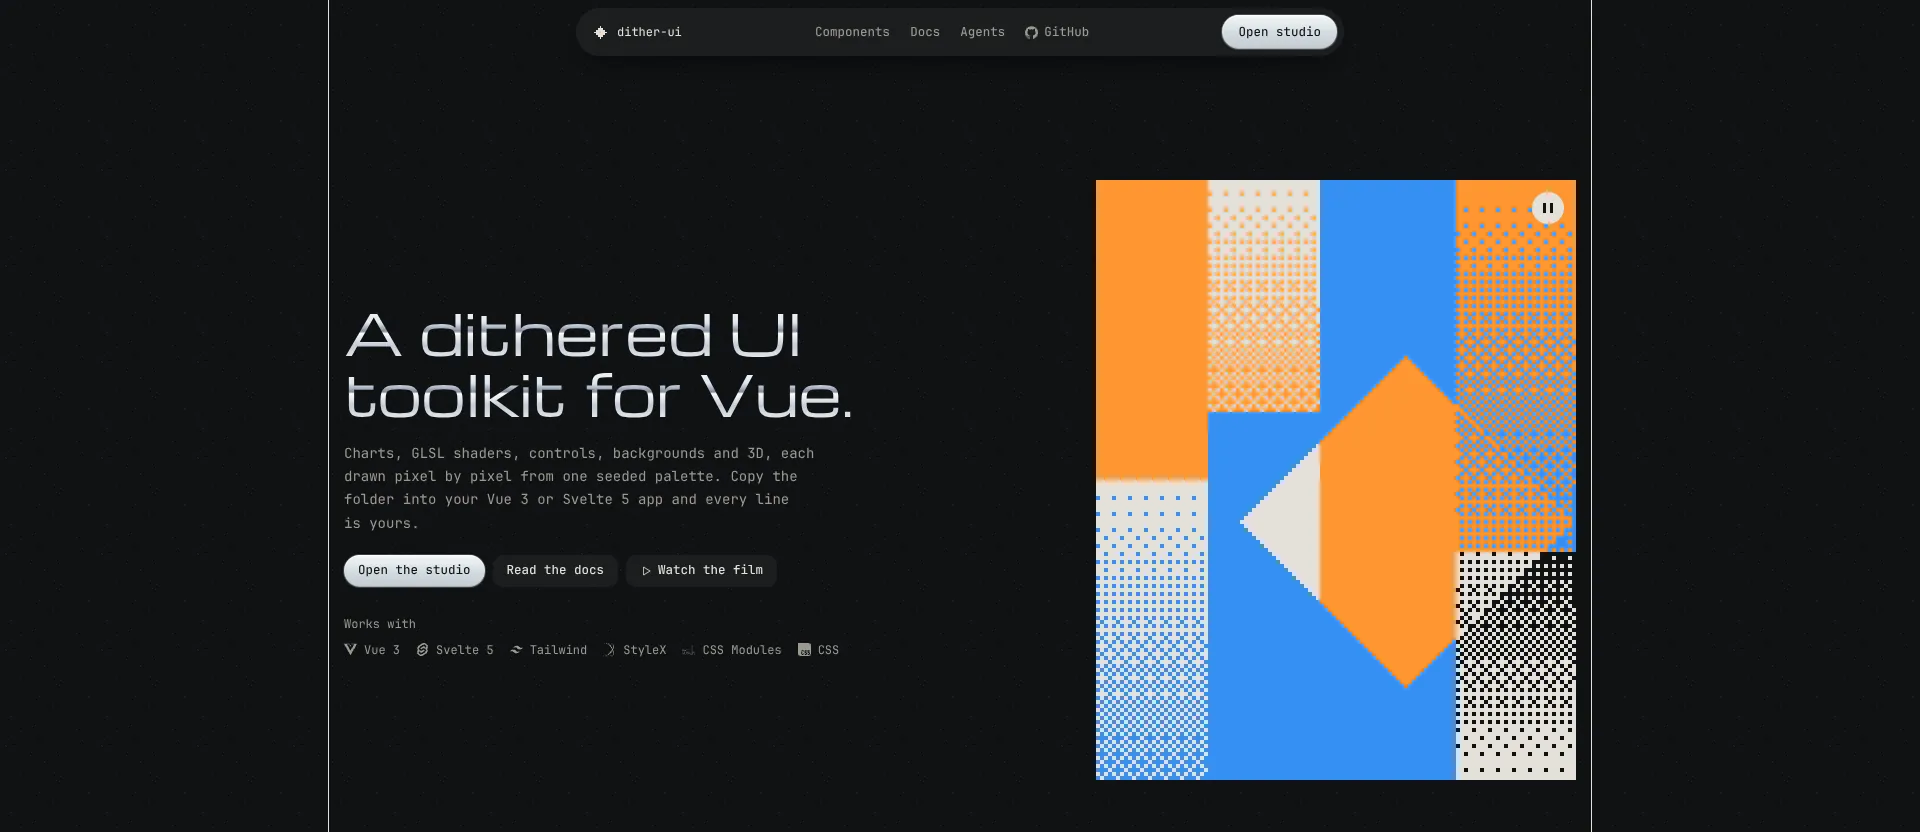
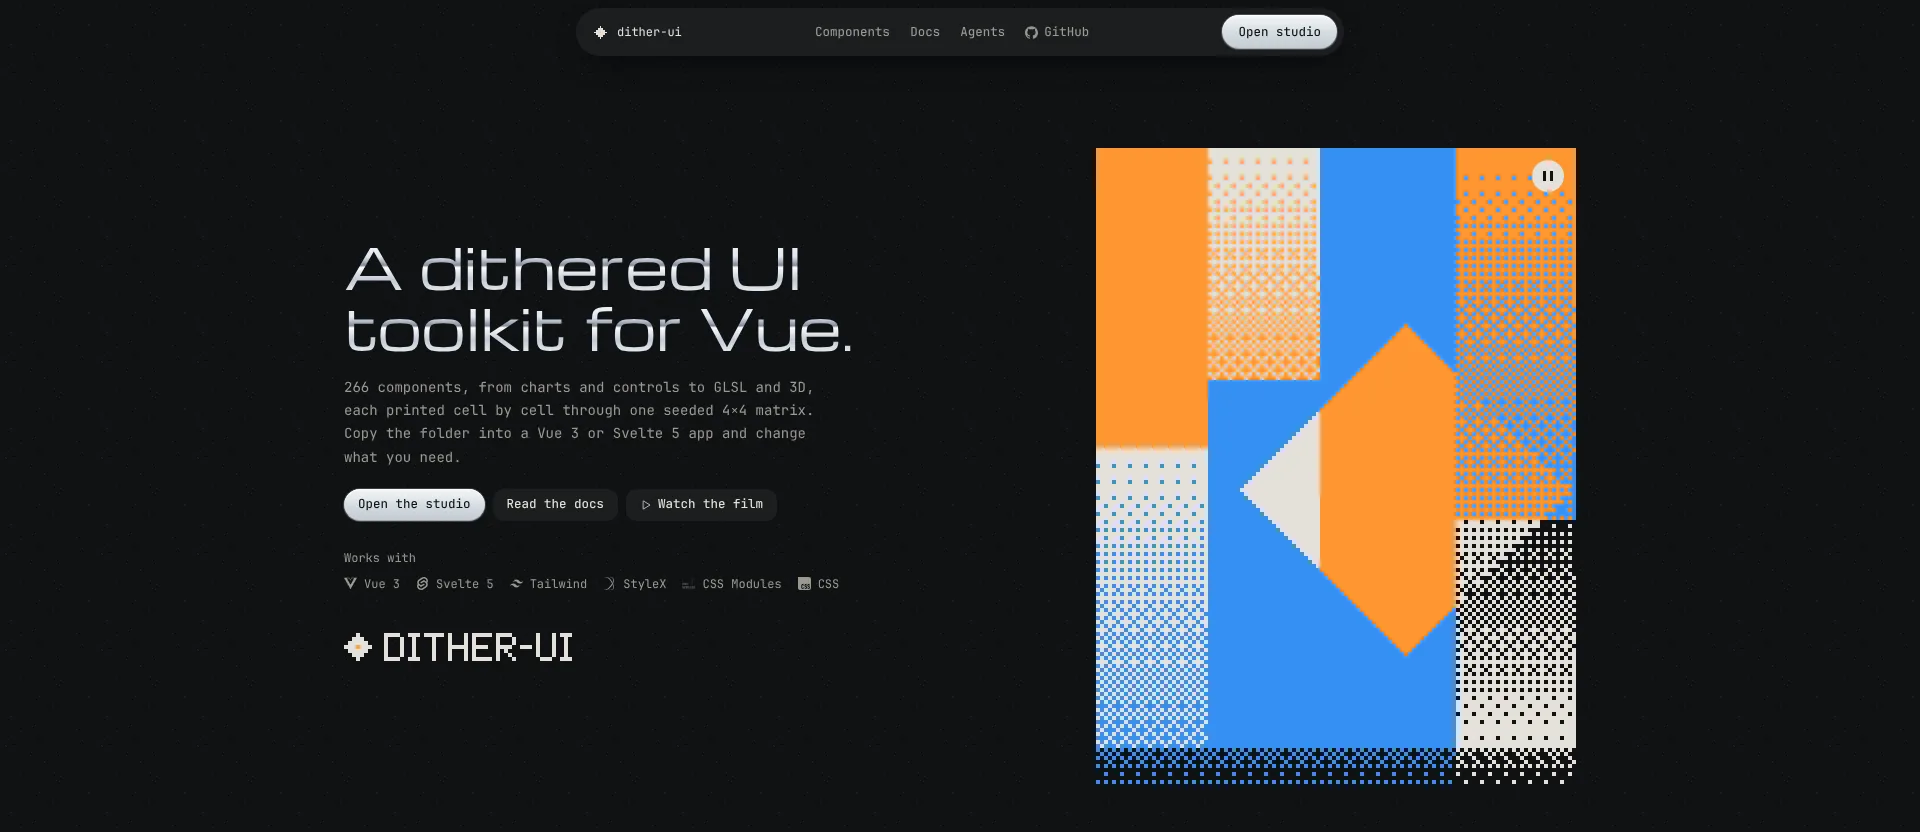
Landing: no side lines; the footer's galaxy runs behind the name
The page's hairline frame is gone (the user's call). The footer's art now
covers the whole footer, the wordmark included: the road runs from the
copyright line to the page's foot with the line-screen wordmark printed
over its foot, so the grain fills the gap between the links and the name
as a field and shows between the wordmark's rows, and the trails run under
the diamond, standing clear above the name at every width, and sweep down
behind its end. The README's banner and landing shots are retaken without
the frame.

Claude-Session: https://claude.ai/code/session_01VFJHAFjKoL8rvfjAbQNhSD

diff --git a/src/pages/landing/LandingPage.vue b/src/pages/landing/LandingPage.vue
@@ -1,12 +1,12 @@
 <script setup lang="ts">
-// The landing, printed in the dark, always: one bone ink on obsidian
-// inside a hairline frame, the kit's art the only colour on it. The hero (the statement beside the
+// The landing, printed in the dark, always: one bone ink on obsidian, the
+// kit's art the only colour on it. The hero (the statement beside the
 // stage, seated on a poster the kit prints), then sections under a title
 // with a lead beside it: a bento of live kit components, the screen an
 // agent's ask makes, what's inside (the kit, the Studio, the bridge; the
 // docs' families) and the install, with a plate of the brand small in a
 // wide field between them, and a footer of the brand and link columns on the
-// kit's light trails, over the line-screen wordmark. Michroma for display, mono for the rest; everything
+// kit's light trails, the line-screen wordmark printed over them. Michroma for display, mono for the rest; everything
 // that moves is the kit.
 import { defineAsyncComponent, onBeforeUnmount, onMounted, ref } from "vue"
 import { DitherClipboard, DitherIcon } from "@dither-kit"
@@ -266,8 +266,8 @@ const COLUMNS: { title: string; links: { label: string; href: string; n?: number
     </main>
 
     <!-- Footer: on the kit's art, the brand and a line beside three link
-         columns, the copyright line and the road the trails sweep across;
-         then the line-screen wordmark. -->
+         columns, the copyright line and the road the trails sweep across,
+         the line-screen wordmark printed over its foot. -->
     <footer class="foot" @pointermove="drive">
       <div class="foot-art">
         <div aria-hidden="true" class="foot-ground">
@@ -318,10 +318,10 @@ const COLUMNS: { title: string; links: { label: string; href: string; n?: number
             class="road-mark"
             :style="{ left: `${ROAD.mark[0] * 100}%`, bottom: `${ROAD.mark[1] * 100}%` }"
           />
+          <div aria-hidden="true" class="foot-mark">
+            <LineWordmark />
+          </div>
         </div>
-      </div>
-      <div aria-hidden="true" class="foot-mark">
-        <LineWordmark />
       </div>
     </footer>
   </div>
@@ -578,8 +578,8 @@ const COLUMNS: { title: string; links: { label: string; href: string; n?: number
   overflow: hidden;
 }
 
-/* The art under the footer's content, the wordmark aside: the shader fills
-   it, behind everything in it. A container, so the road tells the narrow
+/* The art under the whole footer: the shader fills it, behind everything
+   in it, the wordmark included. A container, so the road tells the narrow
    layout by the same width the shader does. */
 .foot-art {
   position: relative;
@@ -593,7 +593,9 @@ const COLUMNS: { title: string; links: { label: string; href: string; n?: number
 }
 
 /* The road: the footer's width, its height a share of it (`ROAD.aspect`),
-   the diamond standing where the shader runs the trails through. */
+   from the copyright line to the page's foot; the diamond standing where
+   the shader runs the trails through, the wordmark printed over its foot
+   with the trails sweeping behind it. */
 .foot-road {
   position: relative;
   width: 100%;
@@ -712,11 +714,13 @@ const COLUMNS: { title: string; links: { label: string; href: string; n?: number
   color: var(--ink-3);
 }
 
-/* The wordmark: the page's full width, on its edges. */
+/* The wordmark: the page's full width, on its edges, at the road's foot. */
 .foot-mark {
-  width: 100%;
+  position: absolute;
+  inset-inline: 0;
+  bottom: 0;
   max-width: var(--page);
-  margin: 40px auto 0;
+  margin-inline: auto;
   padding: 0 1.5rem 40px;
 }
 
@@ -760,7 +764,6 @@ const COLUMNS: { title: string; links: { label: string; href: string; n?: number
     padding-inline: 16px;
   }
   .foot-mark {
-    width: 100%;
     padding-inline: 16px;
   }
 }

diff --git a/src/pages/landing/road.ts b/src/pages/landing/road.ts
@@ -1,21 +1,23 @@
 // The footer's ground: one DitherShader under the footer prints a star grain
 // on the obsidian and, across the road at its foot, a bundle of light trails
 // that comes in from the left, runs under the brand's diamond and sweeps out
-// and down to the right, widening as it nears. Luminance picks the ink (the
+// and down to the right behind the wordmark, widening as it nears. Luminance picks the ink (the
 // ramp: the ground, then the print's inks), so the trails burn bone at their
 // heads and core and cool through the ember to blue along their tails and
 // edges; the grain thickens into a spray along the bundle. Only the trails'
 // heads move, along their threads, and the art dissolves at its edges.
 import { GROUND, INKS } from "./plate"
 
-/** The road: its height as a share of the footer's width (the art scales
- * like a print; a taller share under `narrow` px), where the diamond's
+/** The road: from the copyright line to the page's foot, the wordmark
+ * printed over its lower part; its height as a share of the footer's width
+ * (the art scales like a print; a taller share under `narrow` px), where
+ * the diamond's
  * centre stands on it (fractions of the width and of the road's height from
  * its foot), and the shader's cell in CSS px (the page pins its dpr to 1,
  * so its width in cells times `cell` is the footer's CSS width). The page
  * sizes the road and places the diamond from these; the shader runs the
  * trails through the same point, telling the narrow layout by that width. */
-export const ROAD = { aspect: 0.3, narrowAspect: 0.6, narrow: 640, mark: [0.58, 0.55], cell: 3 } as const
+export const ROAD = { aspect: 0.42, narrowAspect: 0.75, narrow: 640, mark: [0.58, 0.68], cell: 3 } as const
 
 /** Dark to light: the ground, then the print's inks, so brightness 1/3,
  * 2/3 and 1 print blue, the ember and bone. */
@@ -49,7 +51,7 @@ void mainImage(out vec4 fragColor, in vec2 fragCoord) {
   // The art dissolves at its edges into the page: in from the footer's top,
   // out toward its foot, so it never shows a box.
   float top = (iResolution.y - fragCoord.y) / iResolution.x;
-  float foot = smoothstep(0.0, 0.3, p.y) * smoothstep(0.0, 0.12, top);
+  float foot = smoothstep(0.0, 0.12, p.y) * smoothstep(0.0, 0.12, top);
   float lum = 0.0;
   if (abs(s) < 1.0) {
     float across = (s + 1.0) * 0.5 * THREADS;
@@ -63,11 +65,12 @@ void mainImage(out vec4 fragColor, in vec2 fragCoord) {
     float edge = (1.0 - smoothstep(0.8, 1.0, abs(s))) * smoothstep(0.0, 0.18, p.x);
     lum = min(1.0, heat * (0.22 + 0.78 * run * run)) * mix(0.5, 1.0, seam) * edge * foot;
   } else {
-    // The grain: rare and blue over the columns, a spray along the bundle
-    // with bone among it.
+    // The grain: rare and blue over the columns, a field of it over the
+    // road (behind the wordmark too), thickening into a spray along the
+    // bundle with bone among it.
     float road = step(p.y, 1.0);
     float spray = exp(-(abs(s) - 1.0) * 1.6) * road;
-    float density = (mix(0.002, 0.0003, smoothstep(0.7, 1.3, p.y)) + 0.05 * spray) * foot;
+    float density = (mix(0.004, 0.0003, smoothstep(0.85, 1.3, p.y)) + 0.05 * spray) * foot;
     vec2 c = floor(fragCoord);
     if (hash(c) < density) lum = hash(c + 31.0) < 1.0 - 0.3 * road ? 1.0 / 3.0 : 1.0;
   }

diff --git a/src/pages/landing/chapters.css b/src/pages/landing/chapters.css
@@ -1,8 +1,7 @@
 /* The landing's layer over the SITE voice (monospace, `.nav-a` and the
    dark materials in app/styles.css), printed in the dark, always: one bone
-   ink on obsidian with a fine grain, a hairline frame down the page, and
-   colour only in the kit's own art (the poster, the live components). Two
-   inks (`--ink`, `--ink-3`) on two grounds (the obsidian, `--surface`)
+   ink on obsidian with a fine grain, and colour only in the kit's own art
+   (the poster, the live components). Two inks (`--ink`, `--ink-3`) on two grounds (the obsidian, `--surface`)
    with no alpha tints. The kit's ember is the signal light; never red. Copy keeps
    the bans: sentence case, no eyebrow, no middle dots or em dashes, no
    link that ends in an arrow. Plain CSS under .landing, read by every
@@ -33,27 +32,11 @@
   --surface: color-mix(in oklab, var(--foreground) 7%, var(--background));
   /* The dark theme's ember: 8.6:1 on the obsidian, 7.5:1 raised. */
   --signal: var(--swatch-orange);
-  /* Where the frame's hairlines run: just outside the page's column. */
-  --frame: max(8px, calc((100vw - var(--page)) / 2 + 8px));
   font-family: var(--font-mono);
   /* The grain: a fixed tile of single cells a tone under and over the
      obsidian, never a grid. */
[1 lines of base64/hex data omitted]
   background-size: 96px 96px;
-}
-
-/* The frame: a hairline down each side of the page's column, from the top
-   to the foot, the page printed inside it. From 900px; a phone's gutter is
-   its own margin. */
-@media (min-width: 900px) {
-  .landing::before {
-    content: "";
-    position: fixed;
-    inset: 0 var(--frame);
-    z-index: 20;
-    border-inline: 1px solid var(--ink);
-    pointer-events: none;
-  }
 }
 
 /* A section's head: the title left, at the page's

diff --git a/src/pages/AGENTS.md b/src/pages/AGENTS.md
@@ -11,7 +11,7 @@ widgets/features; page-specific conventions live here.
 
 - Direction (the user's picks): the page is PRINTED in the dark, ALWAYS,
   whatever theme the docs or the Studio saved: one bone ink on obsidian
-  with a fine grain inside a hairline frame,
+  with a fine grain, no frame or side lines (the user's call),
   and colour only in the kit's own art, which keeps its Bayer screen. It
   wears a reference print site's TASTE, never its devices (the user's
   call: it must not read as a copy; see root `AGENTS.md`). The dither and
@@ -24,9 +24,8 @@ widgets/features; page-specific conventions live here.
   columns, a centred install, link columns over a giant wordmark. Never a
   reference's hero, art, devices, assets, marks, names or words: filled
   with the kit and our own copy. The user's slop bans (root `AGENTS.md`)
-  hold here as lifted for the print: the hairline frame is the page's
-  only rule, and the kit's art (the poster among it) may print more than
-  two inks. Otherwise: no tags,
+  hold here as lifted for the print: the kit's art (the poster among it)
+  may print more than two inks. Otherwise: no rules or hairlines, no tags,
   no italic or slanted type, no negative tracking, no over-detailed UI, no
   other dividers, two inks (`--ink`, `--ink-3`) on two grounds (the obsidian,
   `--surface`) with no alpha tints, no bordered containers, no diagrams,
@@ -58,9 +57,7 @@ widgets/features; page-specific conventions live here.
   tokens (`--ink`, `--ink-3`), `--surface` (the one raised ground, 7% of
   the ink mixed into the obsidian) and `--signal` (the dark theme's ember,
   8.6:1 on the obsidian); the grain (a 96px PNG tile of single cells a
-  tone under and over the obsidian, never a grid); the frame (`--frame`,
-  a fixed hairline down each side of the page's column from 900px, above
-  the page, never taking a pointer); the section head (`.sec-head`: the
+  tone under and over the obsidian, never a grid); the section head (`.sec-head`: the
   `.section-title` left, in the display face (Michroma 400,
   `clamp(1.6rem, 3.4vw, 2.75rem)`) cast in `.chrome-type`; `.sec-side`
   right, on its baseline, a `.sec-lede` and a `.more-link`; stacked under
@@ -97,7 +94,7 @@ widgets/features; page-specific conventions live here.
   slides 1.5 cells a second inside the mark) as a portrait sheet (4:5, at
   most 30rem wide) set on the obsidian at the column's right edge with
   breathing room above and below, square cornered and flat: never a
-  panel run to the frame or under the header (that is the reference's
+  panel run to the page's edge or under the header (that is the reference's
   hero). Its pause ("Pause the print") sits on its top right corner.
   Under it the print stands over its own floor (`.print-floor`, 40px,
   out of the flow): the same poster at the same moment, turned over and
@@ -334,8 +331,8 @@ widgets/features; page-specific conventions live here.
   chip, since a tap also focuses and would point at the card and then
   toggle what it just started. Chips stay under reduced motion, where
   every surface paints one frame and holds it.
-- Footer ground (`road.ts`): the kit's art under the whole footer but the
-  wordmark (`.foot-art`), one `DitherShader` (loaded with the footer, cell
+- Footer ground (`road.ts`): the kit's art under the whole footer, the
+  wordmark included (`.foot-art`), one `DitherShader` (loaded with the footer, cell
   `ROAD.cell` CSS px at dpr 1, so the print reads the same on every screen
   and its width in cells is the art's CSS width) whose GLSL `road.ts`
   writes from `ROAD`: a star grain, rare
@@ -348,8 +345,13 @@ widgets/features; page-specific conventions live here.
   it. Luminance picks the ink through `ROAD_RAMP` (the page's ground, then
   the print's `INKS`), so the trails burn bone at their heads and core and
   cool through the ember to blue. The art dissolves at its edges into the
-  page (in from the footer's top, out toward the wordmark, the trails'
-  tail out of the dark at the left), never showing a box. Only the heads
+  page (in from the footer's top, out at the page's foot, the trails'
+  tail out of the dark at the left), never showing a box. The road runs
+  from the copyright line to the page's foot and the line-screen
+  wordmark is printed over its foot (`.foot-mark`, absolute): the trails
+  sweep down behind its end and the grain shows between its rows, so the
+  galaxy fills the gap between the links and the name and merges into
+  it; the diamond stands clear above the wordmark at every width. Only the heads
   move, and only while the reader moves the page (a scroll, a pointer
   across the footer), settling 240ms after: motion the reader drives, so
   no pause chip (the user's call); they hold while the footer's brand
@@ -363,7 +365,7 @@ widgets/features; page-specific conventions live here.
   (`COLUMNS`: Get started, closing on Verification; Docs, the big families each with its size; For
   agents: SKILL.md, llms.txt, the registry, the Studio; 28px hit areas), the
   copyright line as separate items (the year and dither-ui.com,
-  `v<version>`, MIT license), the road, then the line-screen wordmark. Three columns
+  `v<version>`, MIT license), then the road with the line-screen wordmark over its foot. Three columns
   under the brand under 900px, two under 640px.
 - Footer signature: the line-screen wordmark (`LineWordmark.vue`):
   "dither-ui" in the display face across the page width, filled by 24
@@ -707,7 +709,7 @@ widgets/features; page-specific conventions live here.
 - Browser walk after changes: the landing at desktop AND phone widths (no
   horizontal scroll), the h1 and the keys above the fold at 1440x900,
   1280x800 and 1920x1080 with the print beside them, the
-  obsidian, its grain and the frame's hairlines whatever theme the docs
+  obsidian and its grain whatever theme the docs
   saved (dark on a light preference too),
   "Copy agent prompt" (the install's head) copying a prompt that names
   this origin's SKILL.md, no uppercase label, eyebrow, middle dot, em dash
@@ -725,7 +727,7 @@ widgets/features; page-specific conventions live here.
   the ask story pinned and stepping its lines and the screen's parts as
   the page scrolls (the whole session at once under 900px), the "Works
   with" marks, none of the slop bans in the rendered page (no tag, italic
-  or negative tracking outside a kit component, no rule but the frame, no
+  or negative tracking outside a kit component, no rule or side line, no
   bordered container), the header capsule floating over the page with an anchor
   landing clear of it, reduced motion (the surfaces
   still, the film waiting on its poster), and the workbench readings over

diff --git a/AGENTS.md b/AGENTS.md
@@ -127,7 +127,7 @@ Default section order:
   itself (the user's call after the trailer: show the real components,
   hands on, never drawings of them). The page is printed: one obsidian
   in the dark, ALWAYS (the user's call): one bone ink on obsidian with a
-  fine grain inside a hairline frame, the kit's
+  fine grain, no frame or side lines, the kit's
   art the only colour on it (the taste of a reference print site the
   user picked, kept unnamed, worn so it never reads as a copy: none of
   its devices). Our own hero (the statement beside a live print the kit
@@ -145,9 +145,10 @@ Default section order:
   beside it), what's inside (the kit, the Studio, the bridge, the docs'
   families), a centred install closed by the kit's spec sheet, and the
   footer on the kit's own art (a star grain, and dithered light trails
-  sweeping under the brand's diamond): the brand (struck in as it nears,
-  typewriter-wise) beside link columns, the copyright line, the road and
-  the line-screen wordmark. It keeps the
+  sweeping under the brand's diamond and behind the name, the galaxy
+  filling the gap between the links and the name): the brand (struck in
+  as it nears, typewriter-wise) beside link columns, the copyright line,
+  and the line-screen wordmark printed over the road's foot. It keeps the
   user's slop bans as lifted for it (User Preferences). No film
   player or animation runtime ships with the page. The trailer
   (`public/trailer/`: H.264 MP4, VP9 WebM, a poster) plays behind the
@@ -347,8 +348,8 @@ Default section order:
   secondary keys and segment tracks, smoked-polymer overlays, spec labels
   and slanted speed tags), worn by the docs and the Studio; the landing
   is printed in the dark, always (the user's calls): obsidian (`#101214`)
-  with one bone ink (`#E4E1D8`) and a fine grain, a hairline frame, colour
-  only in the kit's own
+  with one bone ink (`#E4E1D8`) and a fine grain, no frame or side lines
+  (the user's call), colour only in the kit's own
   art; the reference's taste, never its devices (the user's call: a
   borrowing must not read as a copy, so no banded poster with a hatched
   disc, no striped band over the footer, no numbered hairline grid, no
@@ -378,8 +379,8 @@ Default section order:
   labels, figures and code stay mono, the user's identity.
 - Design slop the user bans (their list; the landing is held to it, the
   docs and the Studio keep their tool chrome until the user extends it;
-  for the printed landing the user lifted two: the hairline frame, and
-  more than two inks inside the kit's art, the poster among it):
+  for the printed landing the user lifted one: more than two inks inside
+  the kit's art, the poster among it):
   tags (no `.spec` labels, speed tags or badges), italic or slanted type,
   a trendy serif display or negative tracking, over-detailed UI (call
   times, arguments, rulers, selection handles, decorative dot grids),

diff --git a/README.md b/README.md
@@ -118,8 +118,8 @@ dark under `.dark`), from CSS or with `applyTheme()` from JS.
 
 ### Landing
 
-The page is printed in the dark, always: one bone ink on obsidian inside a
-hairline frame, the kit's art its only colour. The hero: the statement and the
+The page is printed in the dark, always: one bone ink on obsidian, the kit's
+art its only colour. The hero: the statement and the
 keys beside a live print the kit makes, the palette as tone with the kit's
 diamond knocked out of it. "Watch the film" opens the trailer, and under the
 keys a quiet line names what the kit works with, each tool under its own mark.
@@ -138,7 +138,9 @@ tags or borders:
   its own mark, and the docs family by family;
 - the install, under the marks of npm, pnpm and Bun, with a key that copies a
   prompt for your coding agent;
-- the footer: link columns over the line-screen wordmark.
+- the footer: link columns on the kit's own art, a galaxy of grain and dithered
+  light trails that sweep under the brand's diamond and behind the line-screen
+  wordmark, moving only while you scroll or move the pointer.
 
 ### Docs
 
